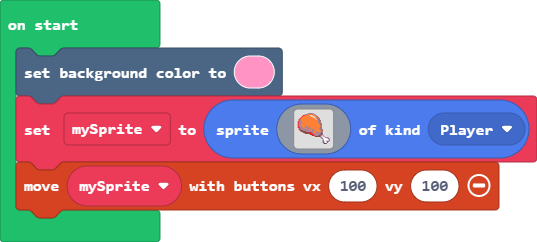
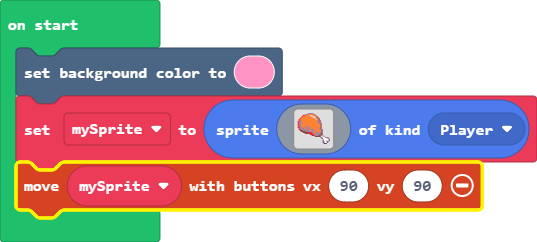
Update main.blocks, main.ts

Changed region(s): [[0.0, 0.6364, 0.9534, 0.9256]]

diff --git a/main.ts b/main.ts
@@ -33,4 +33,4 @@ let mySprite = sprites.create(img`
     ..........................ccc...
     ................................
     `, SpriteKind.Player)
-controller.moveSprite(mySprite, 100, 100)
+controller.moveSprite(mySprite, 90, 90)
